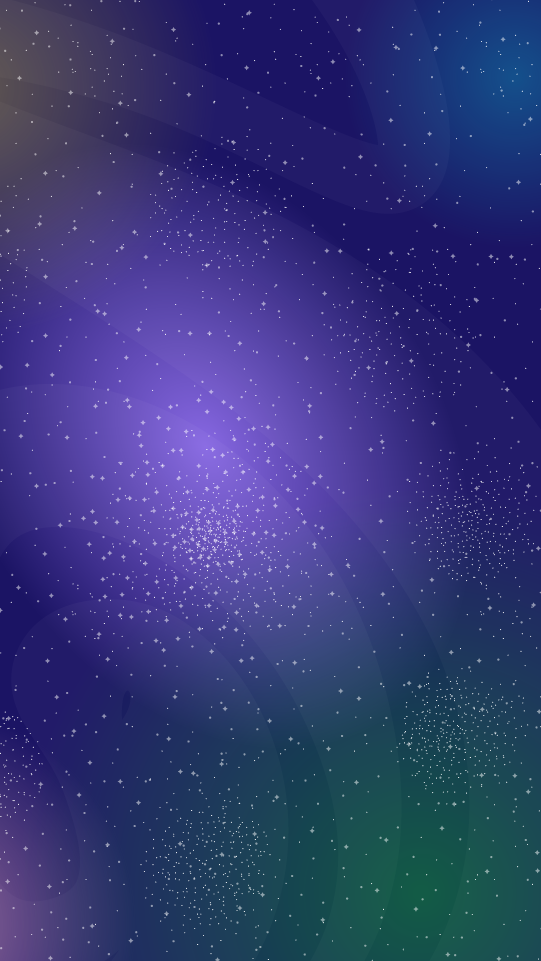
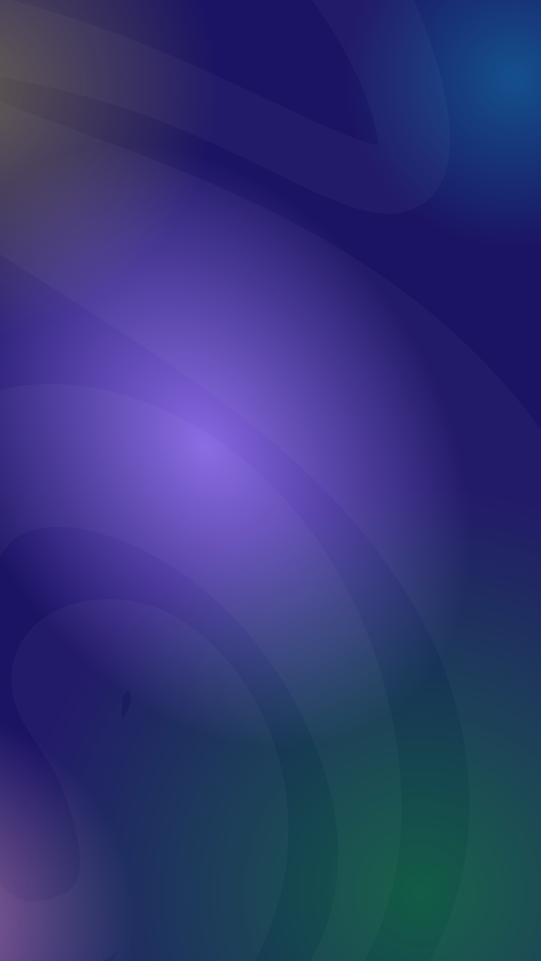
star Explore Command assets en español

diff --git a/newStructure/minigames/starExploreCommand/js/scenes/starExploreCommand.js b/newStructure/minigames/starExploreCommand/js/scenes/starExploreCommand.js
@@ -103,7 +103,7 @@ var starExploreCommand = function(){
     var heartsGroup
     var gameSong
     var coin
-    var space
+    var tile
     var ship
     var cursors
     var planets
@@ -301,15 +301,18 @@ var starExploreCommand = function(){
 
 	function createBackground(){
         
-        space = sceneGroup.create(0, 0, "background")
+        var space = sceneGroup.create(0, 0, "background")
         space.width = game.world.width
         space.height = game.world.height
+        
+        tile = game.add.tileSprite(0, 0, game.world.width, game.world.height, "atlas.starExploreCommand", "tile")
     }
 
 	function update(){
-        //space.tilePosition.y += 1
         
         if(gameActive){
+            
+            tile.tilePosition.y += OBSTACLE_SPEED/200
             
             ship.body.velocity.setTo(0, 0)
 
@@ -575,7 +578,7 @@ var starExploreCommand = function(){
         planets.board.loadTexture("atlas.starExploreCommand", "name_" + planets.NAMES[planets.order] + "_" + lang)
         planets.contact = false
         
-        planets.dropDown = game.add.tween(planets).to({ y:PLANETS_DIRECTION}, 8000, Phaser.Easing.linear, true)
+        planets.dropDown = game.add.tween(planets).to({ y:PLANETS_DIRECTION}, 800, Phaser.Easing.linear, true)
         planets.dropDown.onComplete.add(function(){
             planets.y = PLANETS_SPAWN_Y
             
